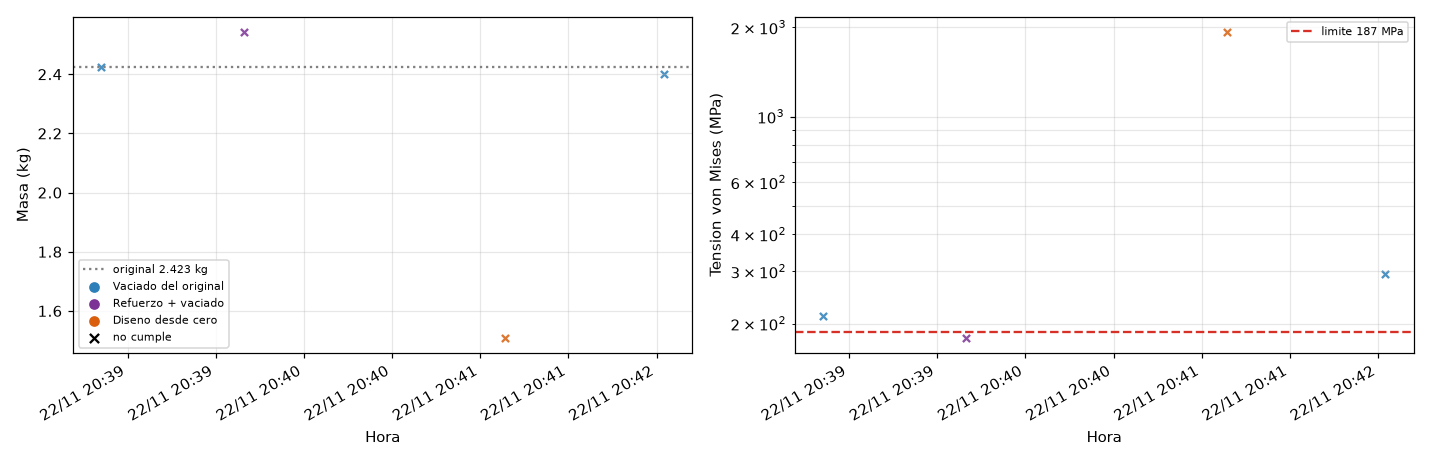
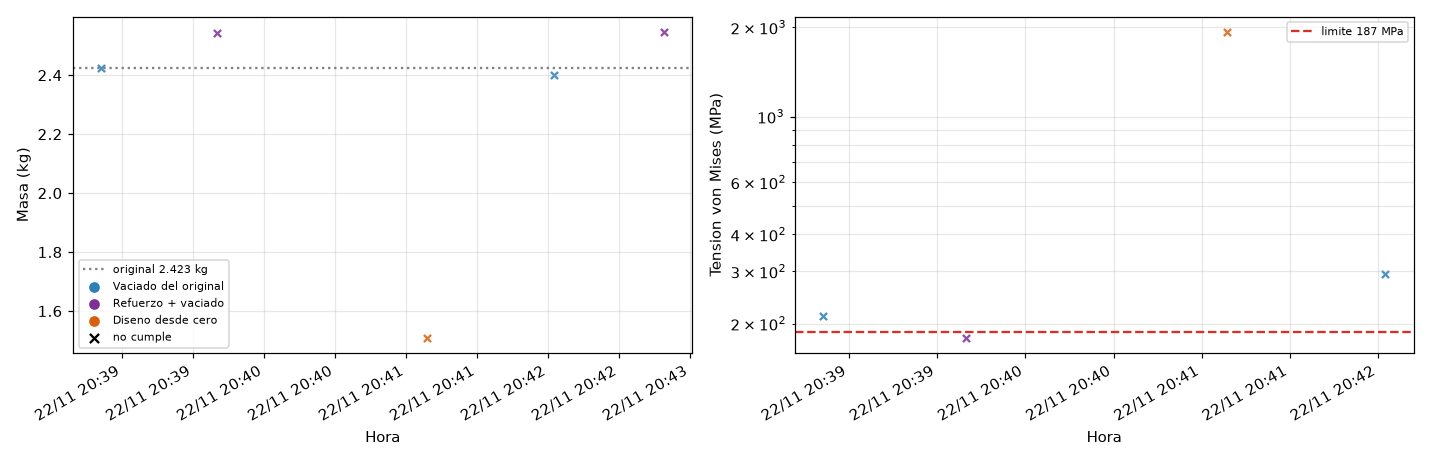
[refuerzo] diseno 002: fallido

diff --git a/runs/opt_37800N/evolucion_interactiva.html b/runs/opt_37800N/evolucion_interactiva.html
@@ -6,6 +6,6 @@
 </head>
 <body>
     <div style="height:850px; width:100%;">                        <script>window.PlotlyConfig = {MathJaxConfig: 'local'};</script>
-        <script charset="utf-8" src="https://cdn.plot.ly/plotly-4.1.1.min.js" integrity="sha256-O24V1F27f8pb0glCkelh3cVHLNiHAJ5gCaVtq2aNch8=" crossorigin="anonymous"></script>                <div id="e3e8794e-f98a-4552-bbb5-56479cbd9058" class="plotly-graph-div" style="height:100%; width:100%;"></div>            <script>                window.PLOTLYENV=window.PLOTLYENV || {};                                if (document.getElementById("e3e8794e-f98a-4552-bbb5-56479cbd9058")) {                    Plotly.newPlot(                        "e3e8794e-f98a-4552-bbb5-56479cbd9058",                        [{"hoverinfo":"text","legendgroup":"vaciado","marker":{"color":"#2c7fb8","size":9,"symbol":"x"},"mode":"markers","name":"Vaciado del original (no cumple)","text":["\u003cb\u003eVaciado del original - diseno 001\u003c\u002fb\u003e\u003cbr\u003ehora: 22\u002f11 20:38:51\u003cbr\u003emasa: 2.4234 kg\u003cbr\u003etension: 212.9 MPa\u003cbr\u003edesplazamiento: 0.1292 mm\u003cbr\u003eresultado: descartado\u003cbr\u003emotivo: reparto inicial (Sobol 1\u002f12): explorar todo el espacio","\u003cb\u003eVaciado del original - diseno 002\u003c\u002fb\u003e\u003cbr\u003ehora: 22\u002f11 20:42:02\u003cbr\u003emasa: 2.4015 kg\u003cbr\u003etension: 294.3 MPa\u003cbr\u003edesplazamiento: 0.1319 mm\u003cbr\u003eresultado: descartado\u003cbr\u003emotivo: reparto inicial (Sobol 2\u002f12): explorar todo el espacio"],"x":["2026-11-22T20:38:51.089125","2026-11-22T20:42:02.493117"],"y":[2.4234392280500003,2.4014711443500003],"type":"scatter","xaxis":"x","yaxis":"y"},{"hoverinfo":"text","legendgroup":"vaciado","marker":{"color":"#2c7fb8","size":9,"symbol":"x"},"mode":"markers","showlegend":false,"text":["\u003cb\u003eVaciado del original - diseno 001\u003c\u002fb\u003e\u003cbr\u003ehora: 22\u002f11 20:38:51\u003cbr\u003emasa: 2.4234 kg\u003cbr\u003etension: 212.9 MPa\u003cbr\u003edesplazamiento: 0.1292 mm\u003cbr\u003eresultado: descartado\u003cbr\u003emotivo: reparto inicial (Sobol 1\u002f12): explorar todo el espacio","\u003cb\u003eVaciado del original - diseno 002\u003c\u002fb\u003e\u003cbr\u003ehora: 22\u002f11 20:42:02\u003cbr\u003emasa: 2.4015 kg\u003cbr\u003etension: 294.3 MPa\u003cbr\u003edesplazamiento: 0.1319 mm\u003cbr\u003eresultado: descartado\u003cbr\u003emotivo: reparto inicial (Sobol 2\u002f12): explorar todo el espacio"],"x":["2026-11-22T20:38:51.089125","2026-11-22T20:42:02.493117"],"y":[212.9304,294.3096],"type":"scatter","xaxis":"x2","yaxis":"y2"},{"hoverinfo":"text","legendgroup":"refuerzo","marker":{"color":"#7b3294","size":9,"symbol":"x"},"mode":"markers","name":"Refuerzo + vaciado (no cumple)","text":["\u003cb\u003eRefuerzo + vaciado - diseno 001\u003c\u002fb\u003e\u003cbr\u003ehora: 22\u002f11 20:39:39\u003cbr\u003emasa: 2.5435 kg\u003cbr\u003etension: 179.4 MPa\u003cbr\u003edesplazamiento: 0.1239 mm\u003cbr\u003eresultado: cerca_del_limite\u003cbr\u003emotivo: reparto inicial (Sobol 1\u002f12): explorar todo el espacio"],"x":["2026-11-22T20:39:39.753581"],"y":[2.5435446441],"type":"scatter","xaxis":"x","yaxis":"y"},{"hoverinfo":"text","legendgroup":"refuerzo","marker":{"color":"#7b3294","size":9,"symbol":"x"},"mode":"markers","showlegend":false,"text":["\u003cb\u003eRefuerzo + vaciado - diseno 001\u003c\u002fb\u003e\u003cbr\u003ehora: 22\u002f11 20:39:39\u003cbr\u003emasa: 2.5435 kg\u003cbr\u003etension: 179.4 MPa\u003cbr\u003edesplazamiento: 0.1239 mm\u003cbr\u003eresultado: cerca_del_limite\u003cbr\u003emotivo: reparto inicial (Sobol 1\u002f12): explorar todo el espacio"],"x":["2026-11-22T20:39:39.753581"],"y":[179.3946],"type":"scatter","xaxis":"x2","yaxis":"y2"},{"hoverinfo":"text","legendgroup":"cero","marker":{"color":"#d95f0e","size":9,"symbol":"x"},"mode":"markers","name":"Diseno desde cero (no cumple)","text":["\u003cb\u003eDiseno desde cero - diseno 001\u003c\u002fb\u003e\u003cbr\u003ehora: 22\u002f11 20:41:08\u003cbr\u003emasa: 1.5099 kg\u003cbr\u003etension: 1933.7 MPa\u003cbr\u003edesplazamiento: 1.5928 mm\u003cbr\u003eresultado: descartado\u003cbr\u003emotivo: reparto inicial (Sobol 1\u002f12): explorar todo el espacio"],"x":["2026-11-22T20:41:08.522919"],"y":[1.5098900537000002],"type":"scatter","xaxis":"x","yaxis":"y"},{"hoverinfo":"text","legendgroup":"cero","marker":{"color":"#d95f0e","size":9,"symbol":"x"},"mode":"markers","showlegend":false,"text":["\u003cb\u003eDiseno desde cero - diseno 001\u003c\u002fb\u003e\u003cbr\u003ehora: 22\u002f11 20:41:08\u003cbr\u003emasa: 1.5099 kg\u003cbr\u003etension: 1933.7 MPa\u003cbr\u003edesplazamiento: 1.5928 mm\u003cbr\u003eresultado: descartado\u003cbr\u003emotivo: reparto inicial (Sobol 1\u002f12): explorar todo el espacio"],"x":["2026-11-22T20:41:08.522919"],"y":[1933.709],"type":"scatter","xaxis":"x2","yaxis":"y2"}],                        {"template":{"data":{"barpolar":[{"marker":{"line":{"color":"white","width":0.5},"pattern":{"fillmode":"overlay","size":10,"solidity":0.2}},"type":"barpolar"}],"bar":[{"error_x":{"color":"#2a3f5f"},"error_y":{"color":"#2a3f5f"},"marker":{"line":{"color":"white","width":0.5},"pattern":{"fillmode":"overlay","size":10,"solidity":0.2}},"type":"bar"}],"carpet":[{"aaxis":{"endlinecolor":"#2a3f5f","gridcolor":"#C8D4E3","linecolor":"#C8D4E3","minorgridcolor":"#C8D4E3","startlinecolor":"#2a3f5f"},"baxis":{"endlinecolor":"#2a3f5f","gridcolor":"#C8D4E3","linecolor":"#C8D4E3","minorgridcolor":"#C8D4E3","startlinecolor":"#2a3f5f"},"type":"carpet"}],"choropleth":[{"colorbar":{"outlinewidth":0,"ticks":""},"type":"choropleth"}],"contourcarpet":[{"colorbar":{"outlinewidth":0,"ticks":""},"type":"contourcarpet"}],"contour":[{"colorbar":{"outlinewidth":0,"ticks":""},"colorscale":[[0.0,"#0d0887"],[0.1111111111111111,"#46039f"],[0.2222222222222222,"#7201a8"],[0.3333333333333333,"#9c179e"],[0.4444444444444444,"#bd3786"],[0.5555555555555556,"#d8576b"],[0.6666666666666666,"#ed7953"],[0.7777777777777778,"#fb9f3a"],[0.8888888888888888,"#fdca26"],[1.0,"#f0f921"]],"type":"contour"}],"heatmap":[{"colorbar":{"outlinewidth":0,"ticks":""},"colorscale":[[0.0,"#0d0887"],[0.1111111111111111,"#46039f"],[0.2222222222222222,"#7201a8"],[0.3333333333333333,"#9c179e"],[0.4444444444444444,"#bd3786"],[0.5555555555555556,"#d8576b"],[0.6666666666666666,"#ed7953"],[0.7777777777777778,"#fb9f3a"],[0.8888888888888888,"#fdca26"],[1.0,"#f0f921"]],"type":"heatmap"}],"histogram2dcontour":[{"colorbar":{"outlinewidth":0,"ticks":""},"colorscale":[[0.0,"#0d0887"],[0.1111111111111111,"#46039f"],[0.2222222222222222,"#7201a8"],[0.3333333333333333,"#9c179e"],[0.4444444444444444,"#bd3786"],[0.5555555555555556,"#d8576b"],[0.6666666666666666,"#ed7953"],[0.7777777777777778,"#fb9f3a"],[0.8888888888888888,"#fdca26"],[1.0,"#f0f921"]],"type":"histogram2dcontour"}],"histogram2d":[{"colorbar":{"outlinewidth":0,"ticks":""},"colorscale":[[0.0,"#0d0887"],[0.1111111111111111,"#46039f"],[0.2222222222222222,"#7201a8"],[0.3333333333333333,"#9c179e"],[0.4444444444444444,"#bd3786"],[0.5555555555555556,"#d8576b"],[0.6666666666666666,"#ed7953"],[0.7777777777777778,"#fb9f3a"],[0.8888888888888888,"#fdca26"],[1.0,"#f0f921"]],"type":"histogram2d"}],"histogram":[{"marker":{"pattern":{"fillmode":"overlay","size":10,"solidity":0.2}},"type":"histogram"}],"mesh3d":[{"colorbar":{"outlinewidth":0,"ticks":""},"type":"mesh3d"}],"parcoords":[{"line":{"colorbar":{"outlinewidth":0,"ticks":""}},"type":"parcoords"}],"pie":[{"automargin":true,"type":"pie"}],"scatter3d":[{"line":{"colorbar":{"outlinewidth":0,"ticks":""}},"marker":{"colorbar":{"outlinewidth":0,"ticks":""}},"type":"scatter3d"}],"scattercarpet":[{"marker":{"colorbar":{"outlinewidth":0,"ticks":""}},"type":"scattercarpet"}],"scattergeo":[{"marker":{"colorbar":{"outlinewidth":0,"ticks":""}},"type":"scattergeo"}],"scattergl":[{"marker":{"colorbar":{"outlinewidth":0,"ticks":""}},"type":"scattergl"}],"scattermap":[{"marker":{"colorbar":{"outlinewidth":0,"ticks":""}},"type":"scattermap"}],"scatterpolargl":[{"marker":{"colorbar":{"outlinewidth":0,"ticks":""}},"type":"scatterpolargl"}],"scatterpolar":[{"marker":{"colorbar":{"outlinewidth":0,"ticks":""}},"type":"scatterpolar"}],"scatter":[{"fillpattern":{"fillmode":"overlay","size":10,"solidity":0.2},"type":"scatter"}],"scatterternary":[{"marker":{"colorbar":{"outlinewidth":0,"ticks":""}},"type":"scatterternary"}],"surface":[{"colorbar":{"outlinewidth":0,"ticks":""},"colorscale":[[0.0,"#0d0887"],[0.1111111111111111,"#46039f"],[0.2222222222222222,"#7201a8"],[0.3333333333333333,"#9c179e"],[0.4444444444444444,"#bd3786"],[0.5555555555555556,"#d8576b"],[0.6666666666666666,"#ed7953"],[0.7777777777777778,"#fb9f3a"],[0.8888888888888888,"#fdca26"],[1.0,"#f0f921"]],"type":"surface"}],"table":[{"cells":{"fill":{"color":"#EBF0F8"},"line":{"color":"white"}},"header":{"fill":{"color":"#C8D4E3"},"line":{"color":"white"}},"type":"table"}]},"layout":{"annotationdefaults":{"arrowcolor":"#2a3f5f","arrowhead":0,"arrowwidth":1},"autotypenumbers":"strict","coloraxis":{"colorbar":{"outlinewidth":0,"ticks":""}},"colorscale":{"diverging":[[0,"#8e0152"],[0.1,"#c51b7d"],[0.2,"#de77ae"],[0.3,"#f1b6da"],[0.4,"#fde0ef"],[0.5,"#f7f7f7"],[0.6,"#e6f5d0"],[0.7,"#b8e186"],[0.8,"#7fbc41"],[0.9,"#4d9221"],[1,"#276419"]],"sequential":[[0.0,"#0d0887"],[0.1111111111111111,"#46039f"],[0.2222222222222222,"#7201a8"],[0.3333333333333333,"#9c179e"],[0.4444444444444444,"#bd3786"],[0.5555555555555556,"#d8576b"],[0.6666666666666666,"#ed7953"],[0.7777777777777778,"#fb9f3a"],[0.8888888888888888,"#fdca26"],[1.0,"#f0f921"]],"sequentialminus":[[0.0,"#0d0887"],[0.1111111111111111,"#46039f"],[0.2222222222222222,"#7201a8"],[0.3333333333333333,"#9c179e"],[0.4444444444444444,"#bd3786"],[0.5555555555555556,"#d8576b"],[0.6666666666666666,"#ed7953"],[0.7777777777777778,"#fb9f3a"],[0.8888888888888888,"#fdca26"],[1.0,"#f0f921"]]},"colorway":["#636efa","#EF553B","#00cc96","#ab63fa","#FFA15A","#19d3f3","#FF6692","#B6E880","#FF97FF","#FECB52"],"font":{"color":"#2a3f5f"},"geo":{"bgcolor":"white","lakecolor":"white","landcolor":"white","showlakes":true,"showland":true,"subunitcolor":"#C8D4E3"},"hoverlabel":{"align":"left"},"hovermode":"closest","paper_bgcolor":"white","plot_bgcolor":"white","polar":{"angularaxis":{"gridcolor":"#EBF0F8","linecolor":"#EBF0F8","ticks":""},"bgcolor":"white","radialaxis":{"gridcolor":"#EBF0F8","linecolor":"#EBF0F8","ticks":""}},"scene":{"xaxis":{"backgroundcolor":"white","gridcolor":"#DFE8F3","gridwidth":2,"linecolor":"#EBF0F8","showbackground":true,"ticks":"","zerolinecolor":"#EBF0F8"},"yaxis":{"backgroundcolor":"white","gridcolor":"#DFE8F3","gridwidth":2,"linecolor":"#EBF0F8","showbackground":true,"ticks":"","zerolinecolor":"#EBF0F8"},"zaxis":{"backgroundcolor":"white","gridcolor":"#DFE8F3","gridwidth":2,"linecolor":"#EBF0F8","showbackground":true,"ticks":"","zerolinecolor":"#EBF0F8"}},"shapedefaults":{"line":{"color":"#2a3f5f"}},"ternary":{"aaxis":{"gridcolor":"#DFE8F3","linecolor":"#A2B1C6","ticks":""},"baxis":{"gridcolor":"#DFE8F3","linecolor":"#A2B1C6","ticks":""},"bgcolor":"white","caxis":{"gridcolor":"#DFE8F3","linecolor":"#A2B1C6","ticks":""}},"title":{"x":0.05},"xaxis":{"automargin":true,"gridcolor":"#EBF0F8","linecolor":"#EBF0F8","ticks":"","title":{"standoff":15},"zerolinecolor":"#EBF0F8","zerolinewidth":2},"yaxis":{"automargin":true,"gridcolor":"#EBF0F8","linecolor":"#EBF0F8","ticks":"","title":{"standoff":15},"zerolinecolor":"#EBF0F8","zerolinewidth":2}}},"xaxis":{"anchor":"y","domain":[0.0,1.0],"matches":"x2","showticklabels":false},"yaxis":{"anchor":"x","domain":[0.54,1.0]},"xaxis2":{"anchor":"y2","domain":[0.0,1.0]},"yaxis2":{"anchor":"x2","domain":[0.0,0.46],"type":"log"},"annotations":[{"font":{"size":16},"showarrow":false,"text":"Masa de cada diseno (kg)","x":0.5,"xanchor":"center","xref":"paper","y":1.0,"yanchor":"bottom","yref":"paper"},{"font":{"size":16},"showarrow":false,"text":"Tension de von Mises (MPa, escala log)","x":0.5,"xanchor":"center","xref":"paper","y":0.46,"yanchor":"bottom","yref":"paper"},{"showarrow":false,"text":"original 2.423 kg","x":1,"xanchor":"right","xref":"x domain","y":2.4234,"yanchor":"bottom","yref":"y"},{"showarrow":false,"text":"limite 187 MPa","x":1,"xanchor":"right","xref":"x2 domain","y":186.956475,"yanchor":"bottom","yref":"y2"}],"shapes":[{"line":{"color":"gray","dash":"dot"},"type":"line","x0":0,"x1":1,"xref":"x domain","y0":2.4234,"y1":2.4234,"yref":"y"},{"line":{"color":"red","dash":"dash"},"type":"line","x0":0,"x1":1,"xref":"x2 domain","y0":186.956475,"y1":186.956475,"yref":"y2"}],"title":{"text":"Evolucion del optimizador (actualizado 22\u002f11 20:42)"},"height":850,"hovermode":"closest"},                        {"responsive": true}                    )                };            </script>        </div>
+        <script charset="utf-8" src="https://cdn.plot.ly/plotly-4.1.1.min.js" integrity="sha256-O24V1F27f8pb0glCkelh3cVHLNiHAJ5gCaVtq2aNch8=" crossorigin="anonymous"></script>                <div id="055dba0b-3062-4757-a761-087675341926" class="plotly-graph-div" style="height:100%; width:100%;"></div>            <script>                window.PLOTLYENV=window.PLOTLYENV || {};                                if (document.getElementById("055dba0b-3062-4757-a761-087675341926")) {                    Plotly.newPlot(                        "055dba0b-3062-4757-a761-087675341926",                        [{"hoverinfo":"text","legendgroup":"vaciado","marker":{"color":"#2c7fb8","size":9,"symbol":"x"},"mode":"markers","name":"Vaciado del original (no cumple)","text":["\u003cb\u003eVaciado del original - diseno 001\u003c\u002fb\u003e\u003cbr\u003ehora: 22\u002f11 20:38:51\u003cbr\u003emasa: 2.4234 kg\u003cbr\u003etension: 212.9 MPa\u003cbr\u003edesplazamiento: 0.1292 mm\u003cbr\u003eresultado: descartado\u003cbr\u003emotivo: reparto inicial (Sobol 1\u002f12): explorar todo el espacio","\u003cb\u003eVaciado del original - diseno 002\u003c\u002fb\u003e\u003cbr\u003ehora: 22\u002f11 20:42:02\u003cbr\u003emasa: 2.4015 kg\u003cbr\u003etension: 294.3 MPa\u003cbr\u003edesplazamiento: 0.1319 mm\u003cbr\u003eresultado: descartado\u003cbr\u003emotivo: reparto inicial (Sobol 2\u002f12): explorar todo el espacio"],"x":["2026-11-22T20:38:51.089125","2026-11-22T20:42:02.493117"],"y":[2.4234392280500003,2.4014711443500003],"type":"scatter","xaxis":"x","yaxis":"y"},{"hoverinfo":"text","legendgroup":"vaciado","marker":{"color":"#2c7fb8","size":9,"symbol":"x"},"mode":"markers","showlegend":false,"text":["\u003cb\u003eVaciado del original - diseno 001\u003c\u002fb\u003e\u003cbr\u003ehora: 22\u002f11 20:38:51\u003cbr\u003emasa: 2.4234 kg\u003cbr\u003etension: 212.9 MPa\u003cbr\u003edesplazamiento: 0.1292 mm\u003cbr\u003eresultado: descartado\u003cbr\u003emotivo: reparto inicial (Sobol 1\u002f12): explorar todo el espacio","\u003cb\u003eVaciado del original - diseno 002\u003c\u002fb\u003e\u003cbr\u003ehora: 22\u002f11 20:42:02\u003cbr\u003emasa: 2.4015 kg\u003cbr\u003etension: 294.3 MPa\u003cbr\u003edesplazamiento: 0.1319 mm\u003cbr\u003eresultado: descartado\u003cbr\u003emotivo: reparto inicial (Sobol 2\u002f12): explorar todo el espacio"],"x":["2026-11-22T20:38:51.089125","2026-11-22T20:42:02.493117"],"y":[212.9304,294.3096],"type":"scatter","xaxis":"x2","yaxis":"y2"},{"hoverinfo":"text","legendgroup":"refuerzo","marker":{"color":"#7b3294","size":9,"symbol":"x"},"mode":"markers","name":"Refuerzo + vaciado (no cumple)","text":["\u003cb\u003eRefuerzo + vaciado - diseno 001\u003c\u002fb\u003e\u003cbr\u003ehora: 22\u002f11 20:39:39\u003cbr\u003emasa: 2.5435 kg\u003cbr\u003etension: 179.4 MPa\u003cbr\u003edesplazamiento: 0.1239 mm\u003cbr\u003eresultado: cerca_del_limite\u003cbr\u003emotivo: reparto inicial (Sobol 1\u002f12): explorar todo el espacio","\u003cb\u003eRefuerzo + vaciado - diseno 002\u003c\u002fb\u003e\u003cbr\u003ehora: 22\u002f11 20:42:48\u003cbr\u003emasa: 2.5473 kg\u003cbr\u003etension: 0.0 MPa\u003cbr\u003edesplazamiento: 0.0000 mm\u003cbr\u003eresultado: fallido\u003cbr\u003emotivo: reparto inicial (Sobol 2\u002f12): explorar todo el espacio"],"x":["2026-11-22T20:39:39.753581","2026-11-22T20:42:48.864685"],"y":[2.5435446441,2.5472826219824056],"type":"scatter","xaxis":"x","yaxis":"y"},{"hoverinfo":"text","legendgroup":"refuerzo","marker":{"color":"#7b3294","size":9,"symbol":"x"},"mode":"markers","showlegend":false,"text":["\u003cb\u003eRefuerzo + vaciado - diseno 001\u003c\u002fb\u003e\u003cbr\u003ehora: 22\u002f11 20:39:39\u003cbr\u003emasa: 2.5435 kg\u003cbr\u003etension: 179.4 MPa\u003cbr\u003edesplazamiento: 0.1239 mm\u003cbr\u003eresultado: cerca_del_limite\u003cbr\u003emotivo: reparto inicial (Sobol 1\u002f12): explorar todo el espacio"],"x":["2026-11-22T20:39:39.753581"],"y":[179.3946],"type":"scatter","xaxis":"x2","yaxis":"y2"},{"hoverinfo":"text","legendgroup":"cero","marker":{"color":"#d95f0e","size":9,"symbol":"x"},"mode":"markers","name":"Diseno desde cero (no cumple)","text":["\u003cb\u003eDiseno desde cero - diseno 001\u003c\u002fb\u003e\u003cbr\u003ehora: 22\u002f11 20:41:08\u003cbr\u003emasa: 1.5099 kg\u003cbr\u003etension: 1933.7 MPa\u003cbr\u003edesplazamiento: 1.5928 mm\u003cbr\u003eresultado: descartado\u003cbr\u003emotivo: reparto inicial (Sobol 1\u002f12): explorar todo el espacio"],"x":["2026-11-22T20:41:08.522919"],"y":[1.5098900537000002],"type":"scatter","xaxis":"x","yaxis":"y"},{"hoverinfo":"text","legendgroup":"cero","marker":{"color":"#d95f0e","size":9,"symbol":"x"},"mode":"markers","showlegend":false,"text":["\u003cb\u003eDiseno desde cero - diseno 001\u003c\u002fb\u003e\u003cbr\u003ehora: 22\u002f11 20:41:08\u003cbr\u003emasa: 1.5099 kg\u003cbr\u003etension: 1933.7 MPa\u003cbr\u003edesplazamiento: 1.5928 mm\u003cbr\u003eresultado: descartado\u003cbr\u003emotivo: reparto inicial (Sobol 1\u002f12): explorar todo el espacio"],"x":["2026-11-22T20:41:08.522919"],"y":[1933.709],"type":"scatter","xaxis":"x2","yaxis":"y2"}],                        {"template":{"data":{"barpolar":[{"marker":{"line":{"color":"white","width":0.5},"pattern":{"fillmode":"overlay","size":10,"solidity":0.2}},"type":"barpolar"}],"bar":[{"error_x":{"color":"#2a3f5f"},"error_y":{"color":"#2a3f5f"},"marker":{"line":{"color":"white","width":0.5},"pattern":{"fillmode":"overlay","size":10,"solidity":0.2}},"type":"bar"}],"carpet":[{"aaxis":{"endlinecolor":"#2a3f5f","gridcolor":"#C8D4E3","linecolor":"#C8D4E3","minorgridcolor":"#C8D4E3","startlinecolor":"#2a3f5f"},"baxis":{"endlinecolor":"#2a3f5f","gridcolor":"#C8D4E3","linecolor":"#C8D4E3","minorgridcolor":"#C8D4E3","startlinecolor":"#2a3f5f"},"type":"carpet"}],"choropleth":[{"colorbar":{"outlinewidth":0,"ticks":""},"type":"choropleth"}],"contourcarpet":[{"colorbar":{"outlinewidth":0,"ticks":""},"type":"contourcarpet"}],"contour":[{"colorbar":{"outlinewidth":0,"ticks":""},"colorscale":[[0.0,"#0d0887"],[0.1111111111111111,"#46039f"],[0.2222222222222222,"#7201a8"],[0.3333333333333333,"#9c179e"],[0.4444444444444444,"#bd3786"],[0.5555555555555556,"#d8576b"],[0.6666666666666666,"#ed7953"],[0.7777777777777778,"#fb9f3a"],[0.8888888888888888,"#fdca26"],[1.0,"#f0f921"]],"type":"contour"}],"heatmap":[{"colorbar":{"outlinewidth":0,"ticks":""},"colorscale":[[0.0,"#0d0887"],[0.1111111111111111,"#46039f"],[0.2222222222222222,"#7201a8"],[0.3333333333333333,"#9c179e"],[0.4444444444444444,"#bd3786"],[0.5555555555555556,"#d8576b"],[0.6666666666666666,"#ed7953"],[0.7777777777777778,"#fb9f3a"],[0.8888888888888888,"#fdca26"],[1.0,"#f0f921"]],"type":"heatmap"}],"histogram2dcontour":[{"colorbar":{"outlinewidth":0,"ticks":""},"colorscale":[[0.0,"#0d0887"],[0.1111111111111111,"#46039f"],[0.2222222222222222,"#7201a8"],[0.3333333333333333,"#9c179e"],[0.4444444444444444,"#bd3786"],[0.5555555555555556,"#d8576b"],[0.6666666666666666,"#ed7953"],[0.7777777777777778,"#fb9f3a"],[0.8888888888888888,"#fdca26"],[1.0,"#f0f921"]],"type":"histogram2dcontour"}],"histogram2d":[{"colorbar":{"outlinewidth":0,"ticks":""},"colorscale":[[0.0,"#0d0887"],[0.1111111111111111,"#46039f"],[0.2222222222222222,"#7201a8"],[0.3333333333333333,"#9c179e"],[0.4444444444444444,"#bd3786"],[0.5555555555555556,"#d8576b"],[0.6666666666666666,"#ed7953"],[0.7777777777777778,"#fb9f3a"],[0.8888888888888888,"#fdca26"],[1.0,"#f0f921"]],"type":"histogram2d"}],"histogram":[{"marker":{"pattern":{"fillmode":"overlay","size":10,"solidity":0.2}},"type":"histogram"}],"mesh3d":[{"colorbar":{"outlinewidth":0,"ticks":""},"type":"mesh3d"}],"parcoords":[{"line":{"colorbar":{"outlinewidth":0,"ticks":""}},"type":"parcoords"}],"pie":[{"automargin":true,"type":"pie"}],"scatter3d":[{"line":{"colorbar":{"outlinewidth":0,"ticks":""}},"marker":{"colorbar":{"outlinewidth":0,"ticks":""}},"type":"scatter3d"}],"scattercarpet":[{"marker":{"colorbar":{"outlinewidth":0,"ticks":""}},"type":"scattercarpet"}],"scattergeo":[{"marker":{"colorbar":{"outlinewidth":0,"ticks":""}},"type":"scattergeo"}],"scattergl":[{"marker":{"colorbar":{"outlinewidth":0,"ticks":""}},"type":"scattergl"}],"scattermap":[{"marker":{"colorbar":{"outlinewidth":0,"ticks":""}},"type":"scattermap"}],"scatterpolargl":[{"marker":{"colorbar":{"outlinewidth":0,"ticks":""}},"type":"scatterpolargl"}],"scatterpolar":[{"marker":{"colorbar":{"outlinewidth":0,"ticks":""}},"type":"scatterpolar"}],"scatter":[{"fillpattern":{"fillmode":"overlay","size":10,"solidity":0.2},"type":"scatter"}],"scatterternary":[{"marker":{"colorbar":{"outlinewidth":0,"ticks":""}},"type":"scatterternary"}],"surface":[{"colorbar":{"outlinewidth":0,"ticks":""},"colorscale":[[0.0,"#0d0887"],[0.1111111111111111,"#46039f"],[0.2222222222222222,"#7201a8"],[0.3333333333333333,"#9c179e"],[0.4444444444444444,"#bd3786"],[0.5555555555555556,"#d8576b"],[0.6666666666666666,"#ed7953"],[0.7777777777777778,"#fb9f3a"],[0.8888888888888888,"#fdca26"],[1.0,"#f0f921"]],"type":"surface"}],"table":[{"cells":{"fill":{"color":"#EBF0F8"},"line":{"color":"white"}},"header":{"fill":{"color":"#C8D4E3"},"line":{"color":"white"}},"type":"table"}]},"layout":{"annotationdefaults":{"arrowcolor":"#2a3f5f","arrowhead":0,"arrowwidth":1},"autotypenumbers":"strict","coloraxis":{"colorbar":{"outlinewidth":0,"ticks":""}},"colorscale":{"diverging":[[0,"#8e0152"],[0.1,"#c51b7d"],[0.2,"#de77ae"],[0.3,"#f1b6da"],[0.4,"#fde0ef"],[0.5,"#f7f7f7"],[0.6,"#e6f5d0"],[0.7,"#b8e186"],[0.8,"#7fbc41"],[0.9,"#4d9221"],[1,"#276419"]],"sequential":[[0.0,"#0d0887"],[0.1111111111111111,"#46039f"],[0.2222222222222222,"#7201a8"],[0.3333333333333333,"#9c179e"],[0.4444444444444444,"#bd3786"],[0.5555555555555556,"#d8576b"],[0.6666666666666666,"#ed7953"],[0.7777777777777778,"#fb9f3a"],[0.8888888888888888,"#fdca26"],[1.0,"#f0f921"]],"sequentialminus":[[0.0,"#0d0887"],[0.1111111111111111,"#46039f"],[0.2222222222222222,"#7201a8"],[0.3333333333333333,"#9c179e"],[0.4444444444444444,"#bd3786"],[0.5555555555555556,"#d8576b"],[0.6666666666666666,"#ed7953"],[0.7777777777777778,"#fb9f3a"],[0.8888888888888888,"#fdca26"],[1.0,"#f0f921"]]},"colorway":["#636efa","#EF553B","#00cc96","#ab63fa","#FFA15A","#19d3f3","#FF6692","#B6E880","#FF97FF","#FECB52"],"font":{"color":"#2a3f5f"},"geo":{"bgcolor":"white","lakecolor":"white","landcolor":"white","showlakes":true,"showland":true,"subunitcolor":"#C8D4E3"},"hoverlabel":{"align":"left"},"hovermode":"closest","paper_bgcolor":"white","plot_bgcolor":"white","polar":{"angularaxis":{"gridcolor":"#EBF0F8","linecolor":"#EBF0F8","ticks":""},"bgcolor":"white","radialaxis":{"gridcolor":"#EBF0F8","linecolor":"#EBF0F8","ticks":""}},"scene":{"xaxis":{"backgroundcolor":"white","gridcolor":"#DFE8F3","gridwidth":2,"linecolor":"#EBF0F8","showbackground":true,"ticks":"","zerolinecolor":"#EBF0F8"},"yaxis":{"backgroundcolor":"white","gridcolor":"#DFE8F3","gridwidth":2,"linecolor":"#EBF0F8","showbackground":true,"ticks":"","zerolinecolor":"#EBF0F8"},"zaxis":{"backgroundcolor":"white","gridcolor":"#DFE8F3","gridwidth":2,"linecolor":"#EBF0F8","showbackground":true,"ticks":"","zerolinecolor":"#EBF0F8"}},"shapedefaults":{"line":{"color":"#2a3f5f"}},"ternary":{"aaxis":{"gridcolor":"#DFE8F3","linecolor":"#A2B1C6","ticks":""},"baxis":{"gridcolor":"#DFE8F3","linecolor":"#A2B1C6","ticks":""},"bgcolor":"white","caxis":{"gridcolor":"#DFE8F3","linecolor":"#A2B1C6","ticks":""}},"title":{"x":0.05},"xaxis":{"automargin":true,"gridcolor":"#EBF0F8","linecolor":"#EBF0F8","ticks":"","title":{"standoff":15},"zerolinecolor":"#EBF0F8","zerolinewidth":2},"yaxis":{"automargin":true,"gridcolor":"#EBF0F8","linecolor":"#EBF0F8","ticks":"","title":{"standoff":15},"zerolinecolor":"#EBF0F8","zerolinewidth":2}}},"xaxis":{"anchor":"y","domain":[0.0,1.0],"matches":"x2","showticklabels":false},"yaxis":{"anchor":"x","domain":[0.54,1.0]},"xaxis2":{"anchor":"y2","domain":[0.0,1.0]},"yaxis2":{"anchor":"x2","domain":[0.0,0.46],"type":"log"},"annotations":[{"font":{"size":16},"showarrow":false,"text":"Masa de cada diseno (kg)","x":0.5,"xanchor":"center","xref":"paper","y":1.0,"yanchor":"bottom","yref":"paper"},{"font":{"size":16},"showarrow":false,"text":"Tension de von Mises (MPa, escala log)","x":0.5,"xanchor":"center","xref":"paper","y":0.46,"yanchor":"bottom","yref":"paper"},{"showarrow":false,"text":"original 2.423 kg","x":1,"xanchor":"right","xref":"x domain","y":2.4234,"yanchor":"bottom","yref":"y"},{"showarrow":false,"text":"limite 187 MPa","x":1,"xanchor":"right","xref":"x2 domain","y":186.956475,"yanchor":"bottom","yref":"y2"}],"shapes":[{"line":{"color":"gray","dash":"dot"},"type":"line","x0":0,"x1":1,"xref":"x domain","y0":2.4234,"y1":2.4234,"yref":"y"},{"line":{"color":"red","dash":"dash"},"type":"line","x0":0,"x1":1,"xref":"x2 domain","y0":186.956475,"y1":186.956475,"yref":"y2"}],"title":{"text":"Evolucion del optimizador (actualizado 22\u002f11 20:43)"},"height":850,"hovermode":"closest"},                        {"responsive": true}                    )                };            </script>        </div>
 </body>
 </html>

diff --git a/README.md b/README.md
@@ -1,11 +1,11 @@
 # Optimizacion del soporte - panel en directo
 
-> **Ultima actualizacion:** 22/11/2026 20:42 &nbsp;|&nbsp; **Estado:** EN MARCHA &nbsp;|&nbsp; carga 37800 N &nbsp;|&nbsp; limites: 187 MPa (coef. seguridad >= 1.15 sobre sy = 215 MPa) y 0.25 mm &nbsp;|&nbsp; acero S235
+> **Ultima actualizacion:** 22/11/2026 20:43 &nbsp;|&nbsp; **Estado:** EN MARCHA &nbsp;|&nbsp; carga 37800 N &nbsp;|&nbsp; limites: 187 MPa (coef. seguridad >= 1.15 sobre sy = 215 MPa) y 0.25 mm &nbsp;|&nbsp; acero S235
 
 | Familia | disenos calculados | cumplen | mejor masa | estado |
 |---|---|---|---|---|
 | Vaciado del original | 2 | 0 | - | en marcha |
-| Refuerzo + vaciado | 1 | 0 | - | en marcha |
+| Refuerzo + vaciado | 2 | 0 | - | en marcha |
 | Diseno desde cero | 1 | 0 | - | en marcha |
 
 **Calculos ahorrados:** 0 descartados por el modelo sin ANSYS, 1 descartados en la pasada rapida, 0 piezas repetidas reutilizadas. **Fiabilidad del modelo de tension:** Vaciado del original: aun aprendiendo | Refuerzo + vaciado: aun aprendiendo | Diseno desde cero: aun aprendiendo
@@ -20,7 +20,7 @@ Aun ningun diseno cumple el limite.
 
 Grafico interactivo (hora y datos de cada punto al pasar el raton): [evolucion_interactiva.html](runs/opt_37800N/evolucion_interactiva.html) - descargar y abrir con el navegador (en el PC: doble clic en `runs/opt_37800N/evolucion_interactiva.html`).
 
-**[Galeria: TODOS los disenos (validos y no validos) en orden cronologico](runs/opt_37800N/GALERIA.md)** - 4 fichas.
+**[Galeria: TODOS los disenos (validos y no validos) en orden cronologico](runs/opt_37800N/GALERIA.md)** - 5 fichas.
 
 ## Arbol genealogico de la busqueda
 
@@ -32,6 +32,7 @@ Detalle de cada rama: [ARBOL.md](runs/opt_37800N/ARBOL.md)
 
 | familia | # | masa | tension | resultado | motivo | ficha |
 |---|---|---|---|---|---|---|
+| Refuerzo + vaciado | 002 | 2.547 | - | fallido | reparto inicial (Sobol 2/12): explorar todo el espacio | [ver](runs/opt_37800N/galeria/20261122_204308_refuerzo_002_FALLO_2.547kg.jpg) |
 | Vaciado del original | 002 | 2.401 | 294.3 | descartado | reparto inicial (Sobol 2/12): explorar todo el espacio | [ver](runs/opt_37800N/galeria/20261122_204212_vaciado_002_NO_VALIDO_2.401kg.jpg) |
 | Diseno desde cero | 001 | 1.510 | 1933.7 | descartado | reparto inicial (Sobol 1/12): explorar todo el espacio | [ver](runs/opt_37800N/galeria/20261122_204110_cero_001_NO_VALIDO_1.510kg.jpg) |
 | Refuerzo + vaciado | 001 | 2.544 | 179.4 | cerca_del_limite | reparto inicial (Sobol 1/12): explorar todo el espacio | [ver](runs/opt_37800N/galeria/20261122_204033_refuerzo_001_CASI_2.544kg.jpg) |

diff --git a/runs/opt_37800N/GALERIA.md b/runs/opt_37800N/GALERIA.md
@@ -5,6 +5,7 @@ Veredicto: VALIDO (cumple tension y desplazamiento), CASI (hasta +10 %), no vali
 
 | fecha | diseno | veredicto | masa | ficha (clic para ampliar) |
 |---|---|---|---|---|
+| 22/11 20:43 | Refuerzo + vaciado 002 | FALLO | 2.547 kg | <a href="galeria/20261122_204308_refuerzo_002_FALLO_2.547kg.jpg"><img src="galeria/20261122_204308_refuerzo_002_FALLO_2.547kg.jpg" width="420"></a> |
 | 22/11 20:42 | Vaciado del original 002 | no valido | 2.401 kg | <a href="galeria/20261122_204212_vaciado_002_NO_VALIDO_2.401kg.jpg"><img src="galeria/20261122_204212_vaciado_002_NO_VALIDO_2.401kg.jpg" width="420"></a> |
 | 22/11 20:41 | Diseno desde cero 001 | no valido | 1.510 kg | <a href="galeria/20261122_204110_cero_001_NO_VALIDO_1.510kg.jpg"><img src="galeria/20261122_204110_cero_001_NO_VALIDO_1.510kg.jpg" width="420"></a> |
 | 22/11 20:40 | Refuerzo + vaciado 001 | CASI | 2.544 kg | <a href="galeria/20261122_204033_refuerzo_001_CASI_2.544kg.jpg"><img src="galeria/20261122_204033_refuerzo_001_CASI_2.544kg.jpg" width="420"></a> |

diff --git a/runs/opt_37800N/refuerzo/CLASIFICACION.md b/runs/opt_37800N/refuerzo/CLASIFICACION.md
@@ -1,6 +1,6 @@
 # Refuerzo + vaciado: clasificacion de disenos
 
-Limite: 187 MPa | carga 37800 N | actualizado 2026-11-22 20:40
+Limite: 187 MPa | carga 37800 N | actualizado 2026-11-22 20:43
 
 ## VALIDOS, ordenados por puntuacion masa-seguridad (tension <= 187 MPa y desplazamiento <= 0.25 mm) (0)
 
@@ -18,10 +18,11 @@ Limite: 187 MPa | carga 37800 N | actualizado 2026-11-22 20:40
 | # | masa (kg) | tension (MPa) | motivo | imagen |
 |---|---|---|---|---|
 
-## FALLIDOS (geometria / malla / solver): registrados y penalizados (0)
+## FALLIDOS (geometria / malla / solver): registrados y penalizados (1)
 
 | # | masa (kg) | tension (MPa) | motivo | imagen |
 |---|---|---|---|---|
+| 002 | 2.547 | - | reparto inicial (Sobol 2/12): explorar todo el espacio | - |
 
 ## FILTRADOS por el modelo (casi seguro que no cumplian): no se calcularon en ANSYS (0)
 
